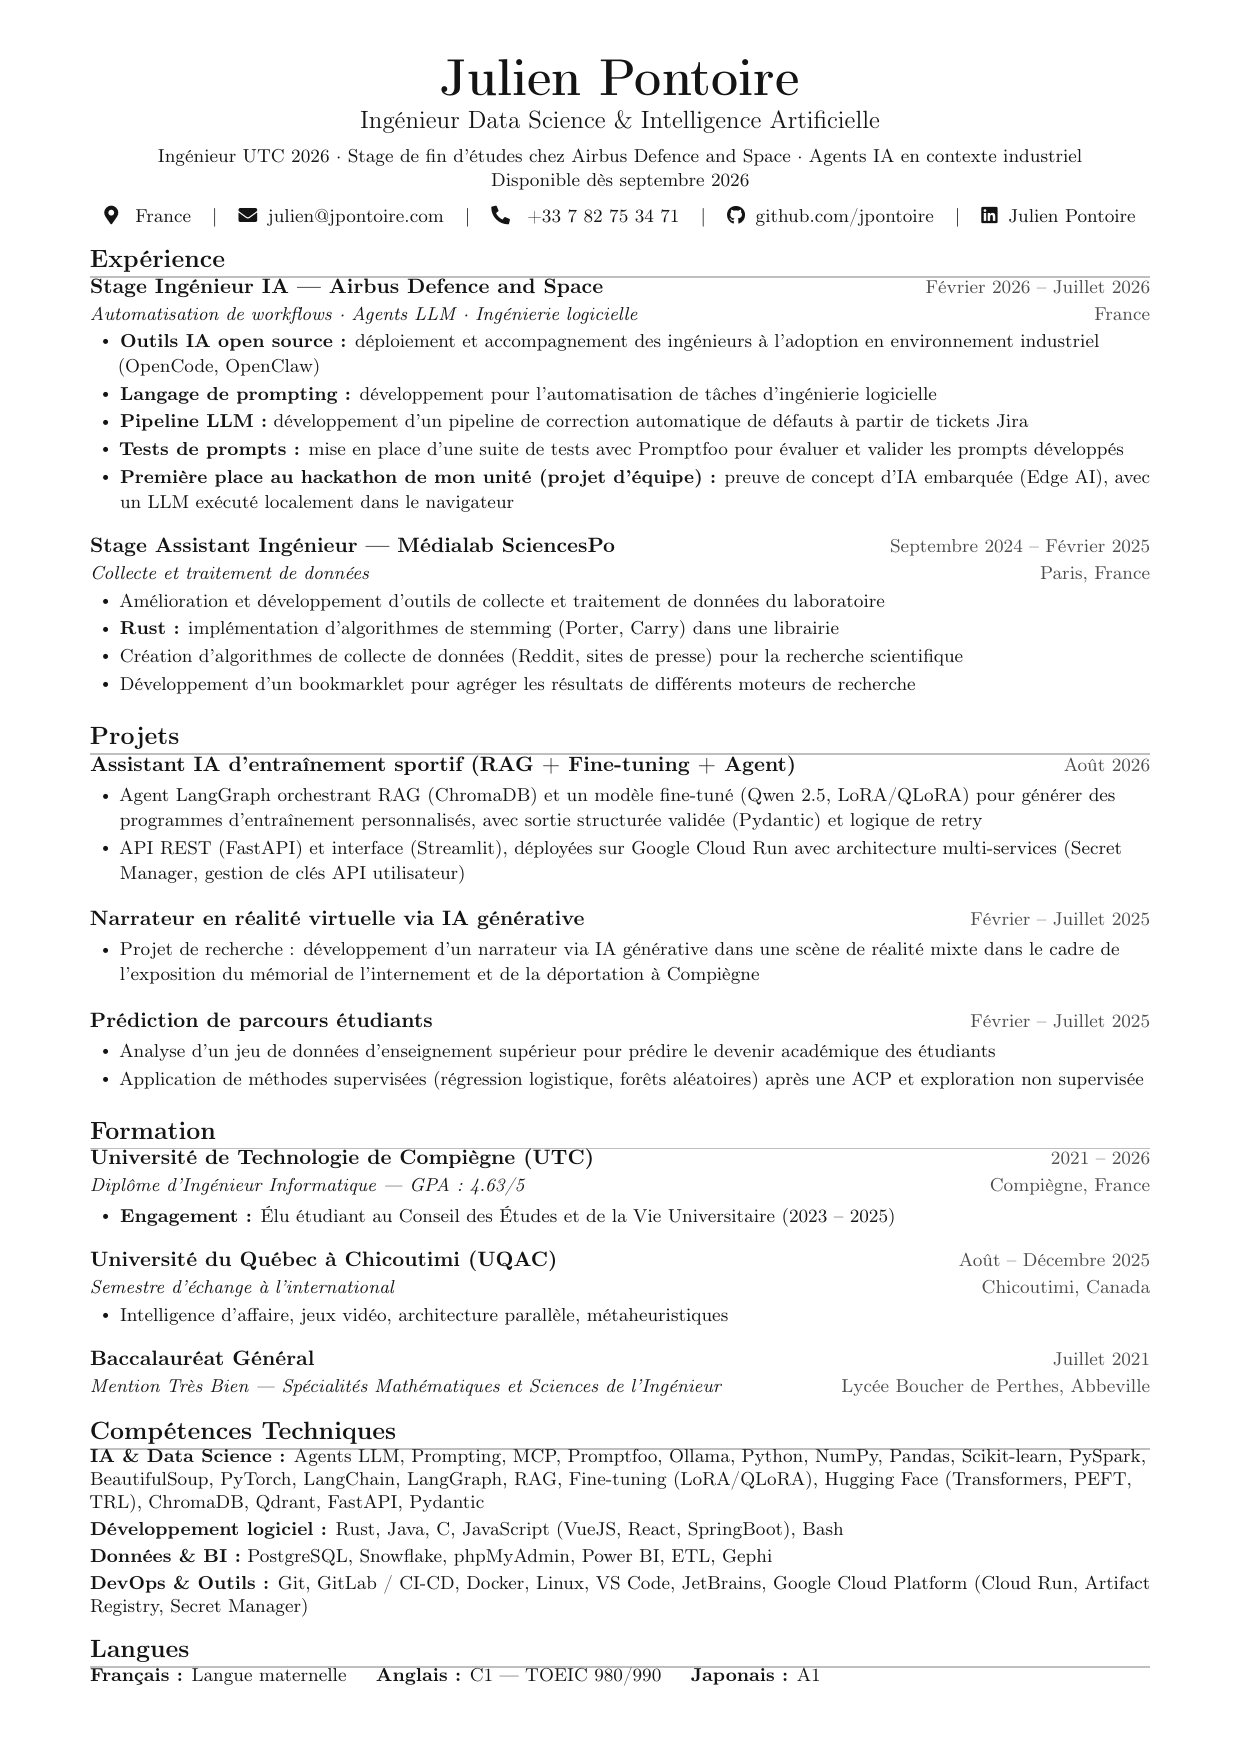
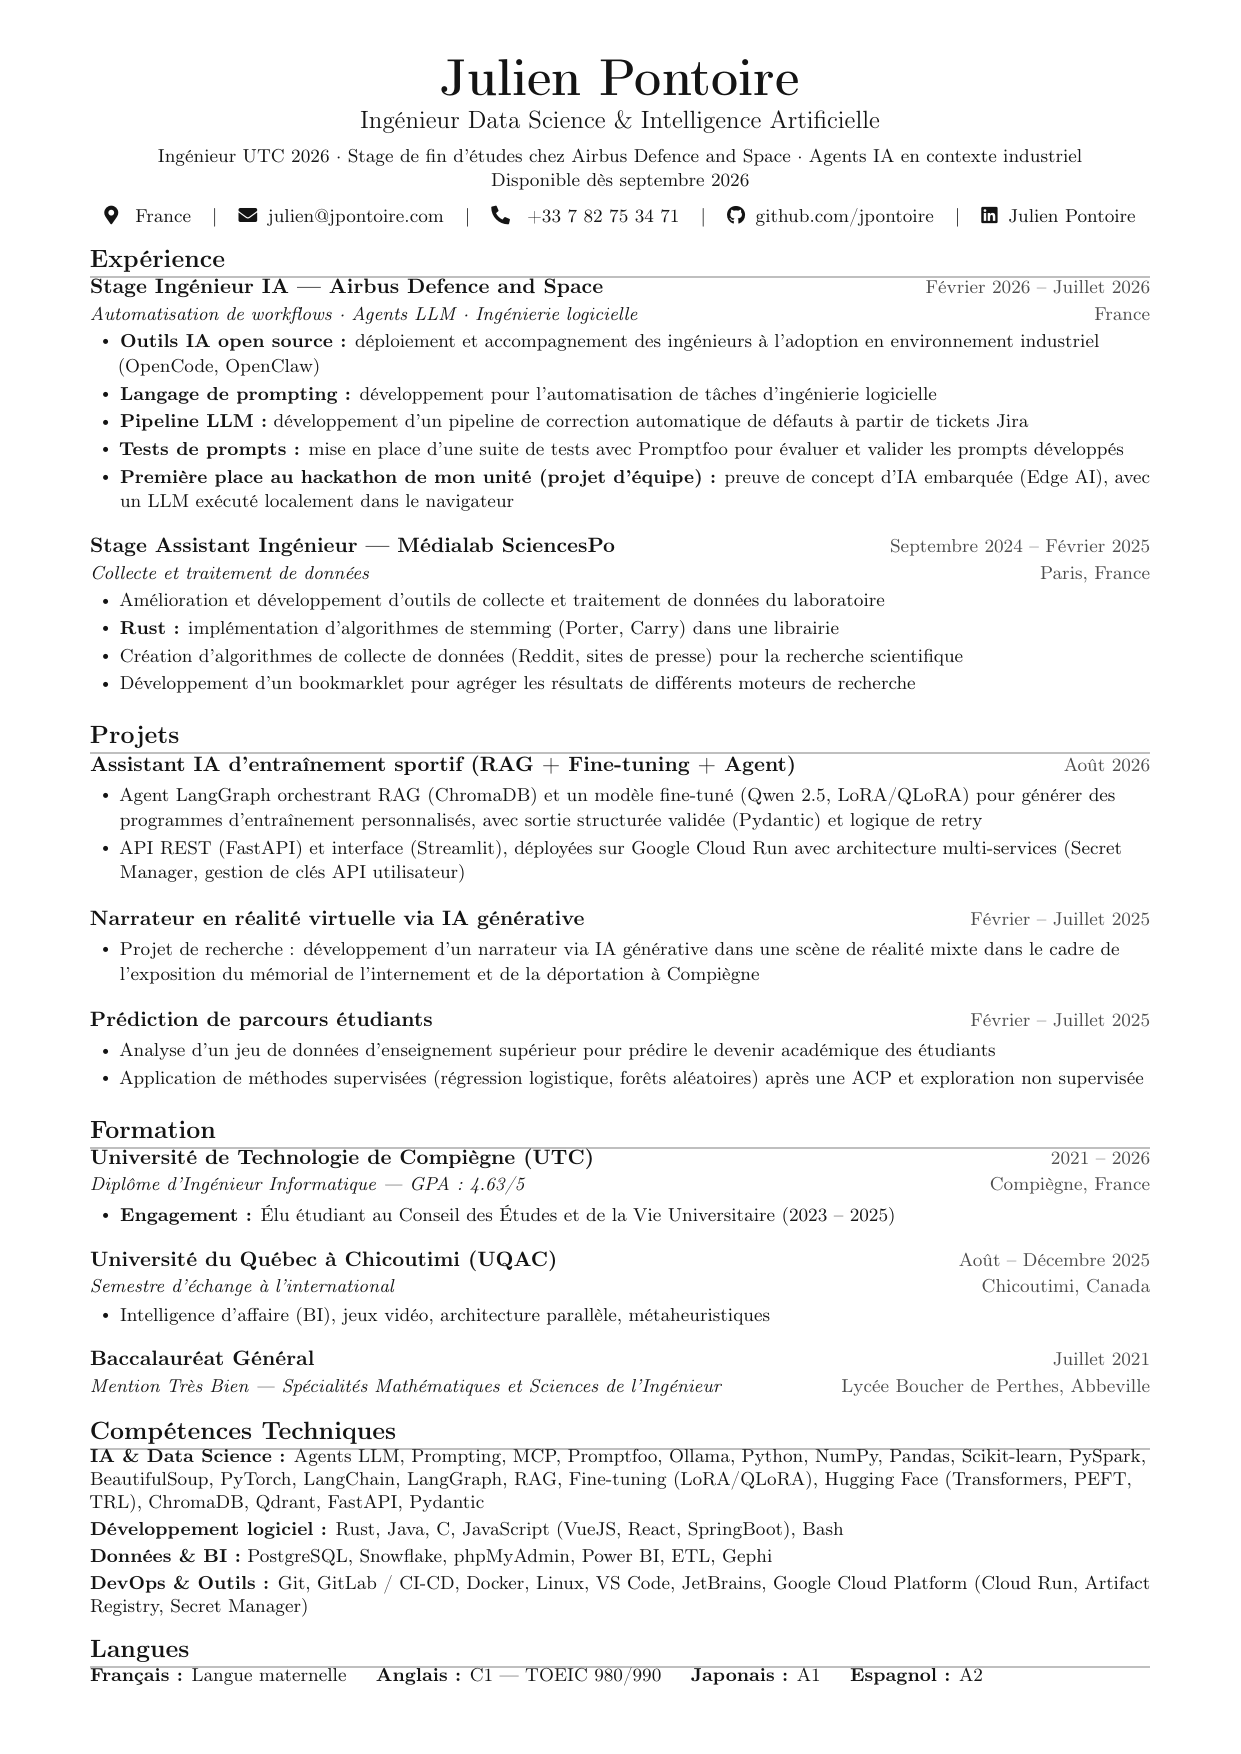
feat: quick update

diff --git a/CV.tex b/CV.tex
@@ -154,7 +154,7 @@
 {Université du Québec à Chicoutimi (UQAC)}{Août -- Décembre 2025}
 {Semestre d'échange à l'international}{Chicoutimi, Canada}
 \cvItemListStart
-\cvItem{Intelligence d'affaire, jeux vidéo, architecture parallèle, métaheuristiques}
+\cvItem{Intelligence d'affaire (BI), jeux vidéo, architecture parallèle, métaheuristiques}
 \cvItemListEnd
 
 \cvEntry
@@ -180,7 +180,8 @@
 	\small{\item{
 		            \textbf{Français :} Langue maternelle \hspace{8pt}
 		            \textbf{Anglais :} C1 \textemdash{} TOEIC 980/990 \hspace{8pt}
-		            \textbf{Japonais :} A1
+		            \textbf{Japonais :} A1 \hspace{8pt}
+			            \textbf{Espagnol :} A2
 		      }}
 \end{itemize}
 

diff --git a/resume.tex b/resume.tex
@@ -177,7 +177,8 @@
     \small{\item{
         \textbf{French:} Native speaker \hspace{8pt}
         \textbf{English:} C1 \textemdash{} TOEIC 980/990 \hspace{8pt}
-        \textbf{Japanese:} A1
+        \textbf{Japanese:} A1 \hspace{8pt}
+        \textbf{Spanish:} A2
     }}
 \end{itemize}
 
